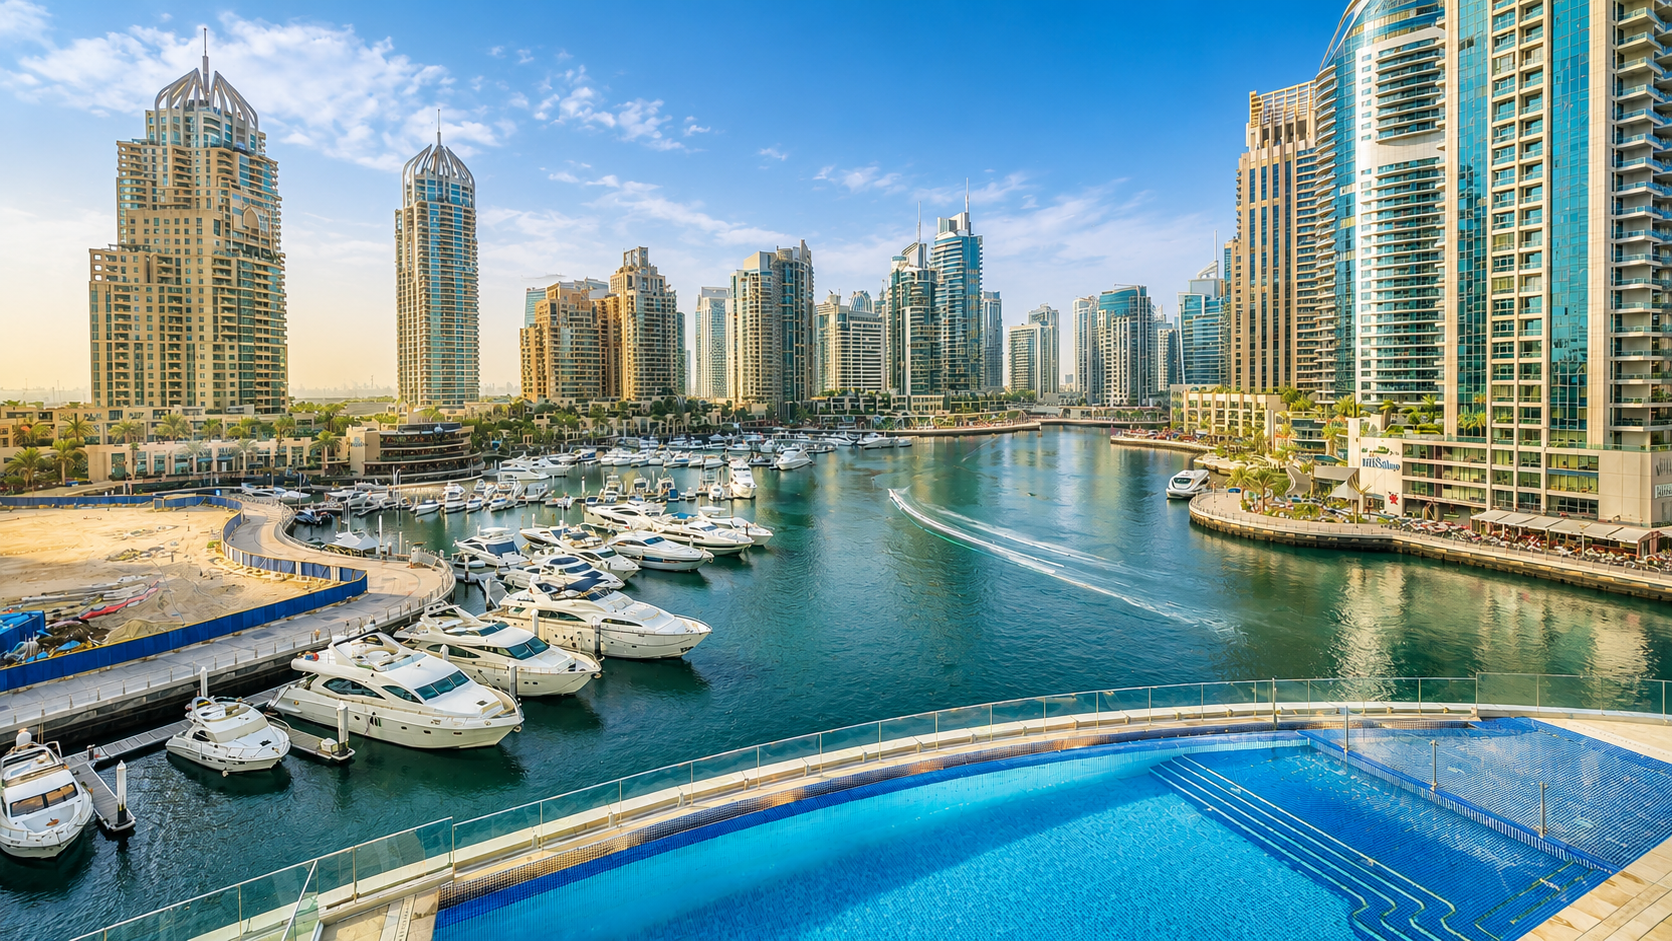
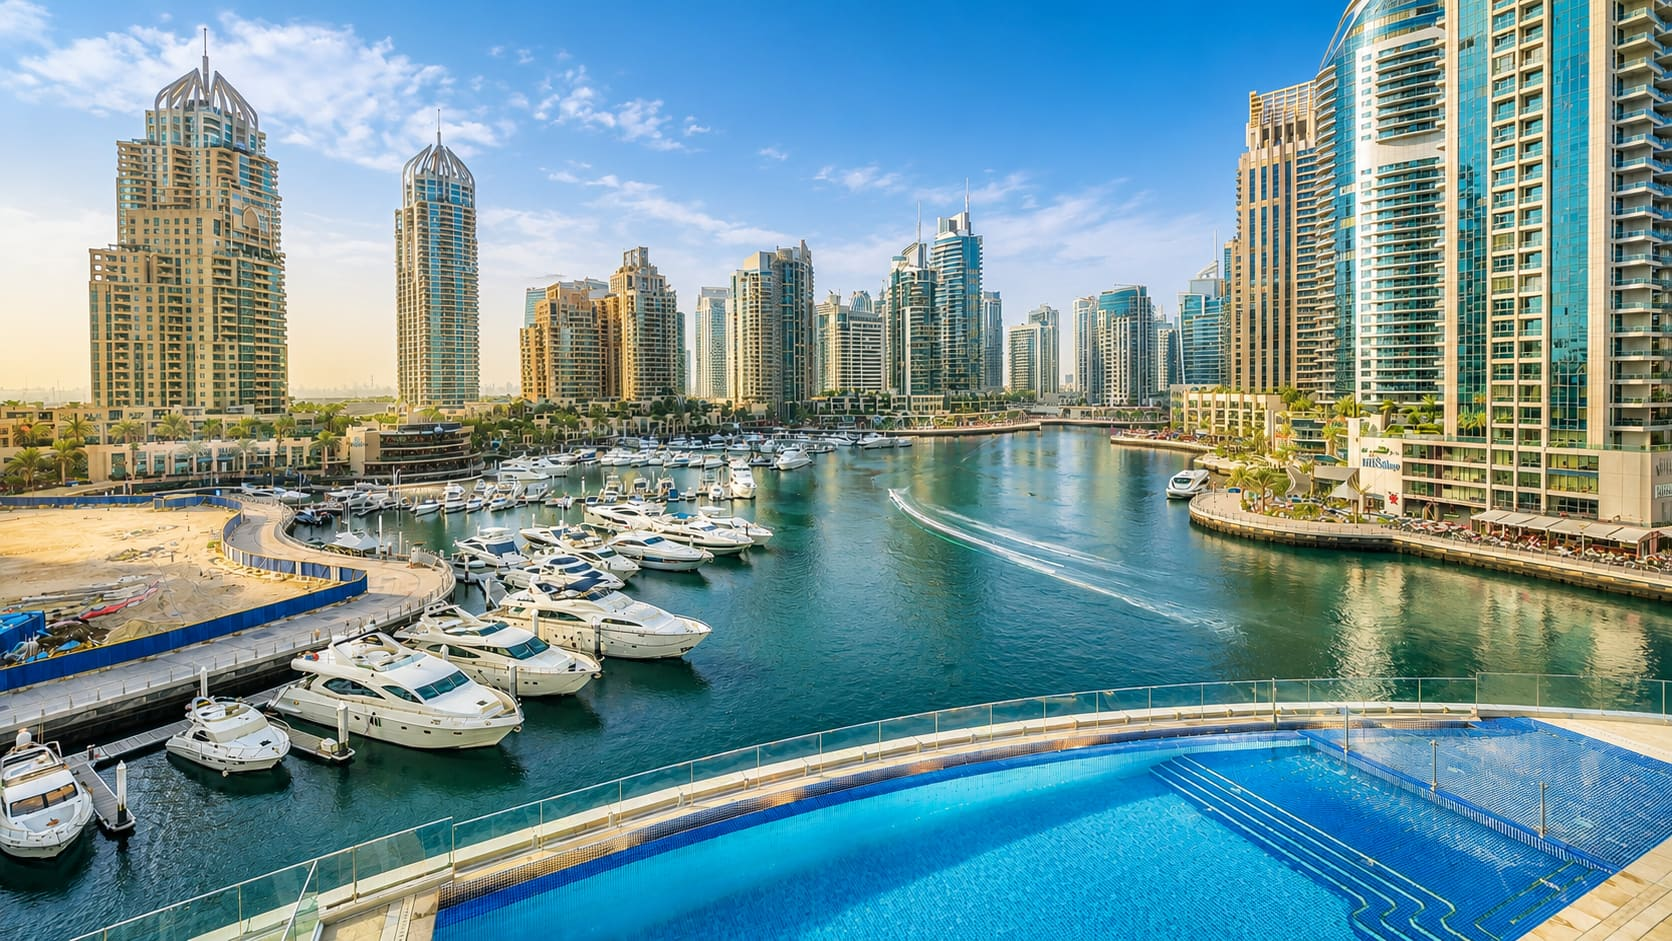
perf/a11y(public): pre-test sweep — hub pages stop listing soft-deleted projects (3 dead links), the first-load curtain parts on a CSS timer so the hero paints before hydration, /projects filter bar and /open-data charts hold their space (CLS), listing link previews as JPEG, bounded photo-wall sizes

diff --git a/app/globals.css b/app/globals.css
@@ -686,12 +686,18 @@
    the horizon when data-phase flips to "open". */
 .intro { position: fixed; inset: 0; z-index: 1000; pointer-events: none; }
 .intro-half { position: absolute; left: 0; right: 0; height: 50.5%; background: #06182e; transition: transform 950ms cubic-bezier(0.77, 0, 0.175, 1); }
-.intro-half--top { top: 0; }
-.intro-half--bottom { bottom: 0; }
+.intro-half--top { top: 0; animation: intro-part-top 950ms cubic-bezier(0.77, 0, 0.175, 1) 950ms forwards; }
+.intro-half--bottom { bottom: 0; animation: intro-part-bottom 950ms cubic-bezier(0.77, 0, 0.175, 1) 950ms forwards; }
 .intro[data-phase="open"] .intro-half--top { transform: translateY(-101%); }
 .intro[data-phase="open"] .intro-half--bottom { transform: translateY(101%); }
-.intro-center { position: absolute; left: 50%; top: 50%; display: flex; flex-direction: column; align-items: center; gap: 18px; transform: translate(-50%, -50%); transition: opacity 260ms ease, transform 500ms cubic-bezier(0.16, 1, 0.3, 1); }
+/* The halves part on a CSS timer that starts at first paint — on a slow phone React hydrates
+   late, and the hero (the page's largest paint) must not wait for it. The JS phase change at
+   the same 950ms agrees with these, so nothing jumps. */
+@keyframes intro-part-top { to { transform: translateY(-101%); } }
+@keyframes intro-part-bottom { to { transform: translateY(101%); } }
+.intro-center { position: absolute; left: 50%; top: 50%; display: flex; flex-direction: column; align-items: center; gap: 18px; transform: translate(-50%, -50%); transition: opacity 260ms ease, transform 500ms cubic-bezier(0.16, 1, 0.3, 1); animation: intro-center-out 500ms cubic-bezier(0.16, 1, 0.3, 1) 950ms forwards; }
 .intro[data-phase="open"] .intro-center { opacity: 0; transform: translate(-50%, -50%) scale(1.08); }
+@keyframes intro-center-out { to { opacity: 0; transform: translate(-50%, -50%) scale(1.08); } }
 .intro-mark { opacity: 0; transform: scale(0.86) translateY(6px); animation: intro-mark 700ms cubic-bezier(0.16, 1, 0.3, 1) 80ms forwards; filter: drop-shadow(0 0 28px rgba(214, 179, 87, 0.35)); }
 @keyframes intro-mark { to { opacity: 1; transform: scale(1) translateY(0); } }
 .intro-rule { display: block; height: 2px; width: 0; background: #d6b357; animation: intro-rule 520ms cubic-bezier(0.16, 1, 0.3, 1) 420ms forwards; }

diff --git a/app/og/listing/[id]/route.tsx b/app/og/listing/[id]/route.tsx
@@ -5,6 +5,7 @@ import { createAdminSupabase } from "@/lib/admin-supabase"
 import { assembleListingMarketingData, type MarketingListingRow } from "@/lib/flyer/marketing-data"
 import { sanitizeOgCardOptions, OG_CARD_W, OG_CARD_H } from "@/lib/flyer/og-card"
 import { isSafeRemoteImageUrl } from "@/lib/image-hosts"
+import { ogJpeg } from "@/lib/og-picture"
 import ListingShareCard from "@/components/dashboard/listings/marketing/ListingShareCard"
 
 // Social link-preview image for a public agent listing. Renders the same
@@ -36,7 +37,7 @@ async function logoDataUrl(): Promise<string> {
 
 async function fallbackBrandCard() {
   const logo = await logoDataUrl()
-  return new ImageResponse(
+  return ogJpeg(new ImageResponse(
     (
       <div
         style={{
@@ -59,7 +60,7 @@ async function fallbackBrandCard() {
       </div>
     ),
     { width: OG_CARD_W, height: OG_CARD_H, headers: CACHE_HEADERS },
-  )
+  ))
 }
 
 export async function GET(_: Request, context: { params: Promise<{ id: string }> }) {
@@ -96,8 +97,8 @@ export async function GET(_: Request, context: { params: Promise<{ id: string }>
   const photoCandidate = options.photo ?? card.gallery[0] ?? null
   const photoSrc = photoCandidate && isSafeRemoteImageUrl(photoCandidate) ? photoCandidate : null
 
-  return new ImageResponse(
+  return ogJpeg(new ImageResponse(
     <ListingShareCard data={card} options={options} photoSrc={photoSrc} logoSrc={await logoDataUrl()} />,
     { width: OG_CARD_W, height: OG_CARD_H, headers: CACHE_HEADERS },
-  )
+  ))
 }

diff --git a/components/public/price-index-chart.tsx b/components/public/price-index-chart.tsx
@@ -122,6 +122,7 @@ function ChartHead({ period, context, point }: { period: string; context: string
         <span className="sr-only">{context} — </span>
         {period}
       </h3>
+      {!(point && point.actual !== null) && <p aria-hidden="true" className="h-[22px]" />}
       {point && point.actual !== null && (
         <p className="flex flex-wrap items-baseline gap-x-2.5 gap-y-1 tabular-nums">
           <span className="text-[10px] font-bold uppercase tracking-[0.16em] text-[#9ca3af]">{xLabel(point.x)}</span>
@@ -275,7 +276,7 @@ export function PriceIndexChart() {
           <div className="p-5 sm:p-6">
             <ChartHead period="Quarterly" context={context} point={latestQ} />
             {loading ? (
-              <Skeleton />
+              <Skeleton h={narrow ? 260 : 340} />
             ) : (
               <>
                 <ResponsiveContainer width="100%" height={narrow ? 260 : 340}>
@@ -344,7 +345,7 @@ export function PriceIndexChart() {
           <div className="min-w-0 border-t border-[#eef0f3] p-5 sm:p-6 xl:border-t-0">
             <ChartHead period="Annual" context={context} point={latestA} />
             {loading ? (
-              <Skeleton />
+              <Skeleton h={narrow ? 260 : 340} />
             ) : (
               <>
                 <ResponsiveContainer width="100%" height={narrow ? 260 : 340}>

diff --git a/app/(public-page)/(header-footer)/[slug]/page.tsx b/app/(public-page)/(header-footer)/[slug]/page.tsx
@@ -138,6 +138,7 @@ export default async function DeveloperDetailPage({ params }: Props) {
     .eq("developer_id", developer.id)
     .eq("is_active", true)
     .eq("is_published", true)
+    .is("deleted_at", null)
     .order("created_at", { ascending: false })
 
   // A project with no picture doesn't appear on the public page — a grid of
@@ -674,6 +675,7 @@ async function fetchSeoInventory(filter: SeoPageFilter): Promise<SeoGridRow[]> {
     .select(select)
     .eq("is_active", true)
     .eq("is_published", true)
+    .is("deleted_at", null)
     .order("created_at", { ascending: false })
 
   if (filter.cityLike) {
@@ -1076,6 +1078,7 @@ async function SeoGuidePage({ seo }: { seo: SeoPage }) {
       .select("name, slug, main_image, developers(slug)")
       .eq("is_active", true)
       .eq("is_published", true)
+      .is("deleted_at", null)
       .not("main_image", "is", null)
       .neq("main_image", "")
       .not("name", "ilike", "%test%")
@@ -1092,6 +1095,7 @@ async function SeoGuidePage({ seo }: { seo: SeoPage }) {
       .select("name, slug, main_image, developers(slug)")
       .eq("is_active", true)
       .eq("is_published", true)
+      .is("deleted_at", null)
       .not("main_image", "is", null)
       .neq("main_image", "")
       .not("name", "ilike", "%test%")

diff --git a/app/(public-page)/(landing)/projects/page.tsx b/app/(public-page)/(landing)/projects/page.tsx
@@ -91,7 +91,7 @@ const getProjectFacets = unstable_cache(
     const supabase = createPublicSupabaseClient()
     const [{ data: devOptions }, { data: cityOptions }, { data: live }] = await Promise.all([
       supabase.from("developers").select("id, name").eq("is_active", true).order("name"),
-      supabase.from("projects").select("city").eq("is_active", true).not("city", "is", null),
+      supabase.from("projects").select("city").eq("is_active", true).eq("is_published", true).is("deleted_at", null).not("city", "is", null),
       // The published catalogue, for the masthead counters and the quick
       // picks' live counts. Same rows the grid draws from.
       supabase
@@ -254,7 +254,7 @@ export default async function ProjectsPage({ searchParams }: { searchParams: Sea
       )}
 
       {/* Filter bar — sticks under the slim header on wide screens */}
-      <Suspense>
+      <Suspense fallback={<div className="h-[371px] sm:h-[296px] lg:h-[148px] xl:h-[110px]" aria-hidden="true" />}>
         <ProjectFilters
           developers={(devOptions ?? []).map((d) => ({ value: d.id, label: d.name }))}
           cities={uniqueCities.map((c) => ({ value: c, label: c }))}

diff --git a/components/public/featured-gate.tsx b/components/public/featured-gate.tsx
@@ -141,7 +141,7 @@ export function FeaturedGate({ count, images = [] }: { count: number; images?: W
                   <div className="gate-wall-grid grid grid-cols-4 gap-2 sm:grid-cols-5 lg:grid-cols-7">
                     {wall.map((im, i) => (
                       <div key={`${side}-${i}`} className="relative aspect-[4/3] overflow-hidden bg-[#0a1f38]">
-                        <Image src={im.src} alt="" fill sizes="(min-width: 1024px) 15vw, 25vw" className="object-cover" />
+                        <Image src={im.src} alt="" width={320} height={240} className="absolute inset-0 h-full w-full object-cover" />
                       </div>
                     ))}
                   </div>

diff --git a/components/public/developer-marquee.tsx b/components/public/developer-marquee.tsx
@@ -90,7 +90,7 @@ export function DeveloperMarquee({ developers }: { developers: DeveloperTileItem
         name="developer-logo"
         className="dv-tile block shrink-0"
         style={{ ["--i" as string]: clone ? developers.length : i }}
-        {...(clone ? { prefetch: false } : {})}
+        {...(clone ? { prefetch: false, "aria-hidden": true, tabIndex: -1 } : {})}
       >
         <span
           className="dv-tile-in group relative flex h-[172px] w-[232px] items-center justify-center overflow-hidden border border-[#e5e8ec] bg-white p-7 sm:w-[248px]"

diff --git a/components/public/home-news.tsx b/components/public/home-news.tsx
@@ -137,6 +137,7 @@ export function HomeNews({ items }: { items: HomeNewsItem[] }) {
               )}
               <Link
                 href="/news"
+                aria-label="All news"
                 className="inline-flex items-center gap-2 text-sm font-bold text-[#0d1117] hover:text-[#b8913f] transition-colors sm:ml-2"
               >
                 <span className="hidden sm:inline">All news</span>

diff --git a/components/public/hero-search.tsx b/components/public/hero-search.tsx
@@ -177,6 +177,7 @@ export function HeroSearch() {
         </div>
         <button
           type="button"
+          aria-label="Search"
           onClick={() => term.trim() && go(allHref)}
           className="flex shrink-0 items-center gap-2 bg-[#d6b357] px-7 text-xs font-bold uppercase tracking-[0.18em] text-[#001f3f] transition-colors duration-300 hover:bg-[#c8a544]"
         >

diff --git a/app/api/home-search/route.ts b/app/api/home-search/route.ts
@@ -39,6 +39,7 @@ export async function GET(req: NextRequest) {
       .select("city")
       .eq("is_active", true)
       .eq("is_published", true)
+      .is("deleted_at", null)
       .ilike("city", like)
       .limit(40),
   ])
